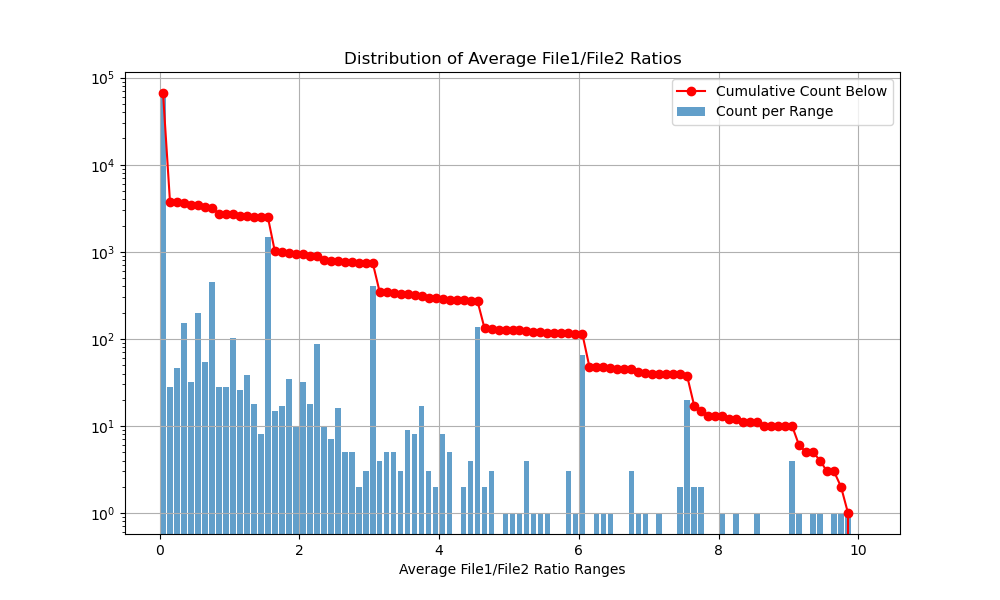
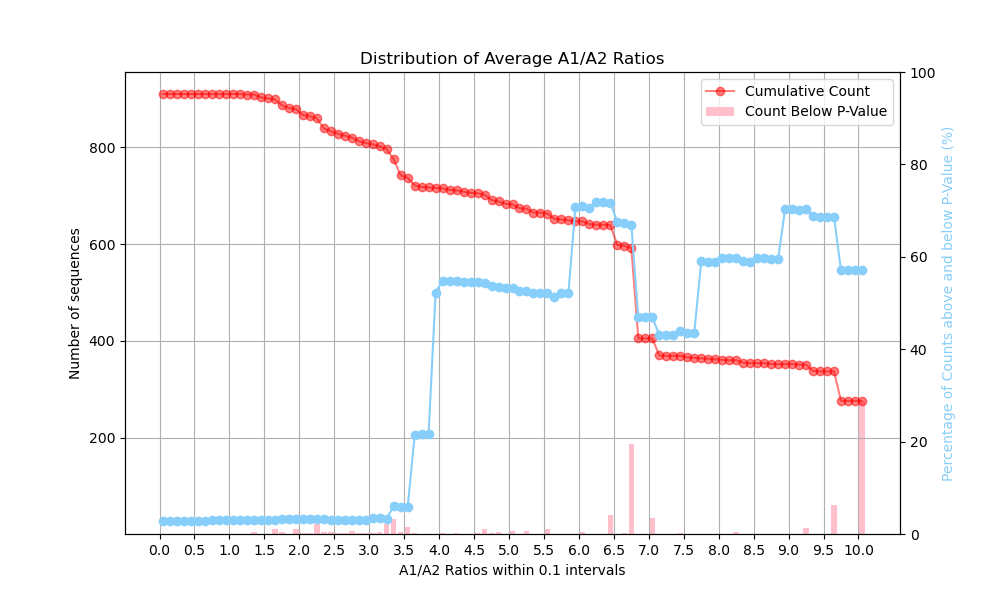
Distrabution files

diff --git a/src/volcanoPlot.py b/src/volcanoPlot.py
@@ -535,7 +535,7 @@ class supportingLogic:
         #Drop columns
         joined.drop(['std_a', 'std_b', 'mean_a', 'mean_b'], axis=1, inplace=True)
         
-        
+        joined.to_csv("debug_volcano.csv")
         
         return joined
 
@@ -609,58 +609,46 @@ class supportingLogic:
         return trimmed
     
     def createDistrabution(fileA, fileB, fileName):
-        dataFrameA = pd.read_csv(fileA, index_col=0)
-        dataFrameA.drop([x for x in dataFrameA.columns.values if x not in ["sequence", "mean", "std"]], axis=1, inplace=True)
-        
-        #Check in the NORMALIZED_ONE_COUNT row is within the file
-        if("NORMALIZED_ONE_COUNT" in dataFrameA.index):
-            dfA_oneCount = dataFrameA.loc["NORMALIZED_ONE_COUNT"][0]
-            dataFrameA.drop("NORMALIZED_ONE_COUNT", inplace=True)
-        else:
-            dfA_oneCount = dataFrameA["mean"].min()
-        
-        dataFrameB = pd.read_csv(fileB, index_col=0)
-        dataFrameB.drop([x for x in dataFrameB.columns.values if x not in ["sequence", "mean", "std"]], axis=1, inplace=True)
-        
-        if("NORMALIZED_ONE_COUNT" in dataFrameB.index):
-            dfB_oneCount = dataFrameB.loc["NORMALIZED_ONE_COUNT"][0]
-            dataFrameB.drop("NORMALIZED_ONE_COUNT", inplace=True)
-        else:
-            dfB_oneCount = dataFrameB["mean"].min()
-        
-        dfa_ColumnCount = 3
-        dfb_ColumnCount = 3
-        
-        
-        joined = dataFrameA.join(dataFrameB, how='outer', lsuffix='_a', rsuffix='_b')
-        
-        joined.fillna(0, inplace=True)
-        
-        sumA, sumB = joined.iloc[:, 0].sum(), joined.iloc[:, 2].sum()
-        
-        [statistic, pValue] = sp.ttest_ind_from_stats(joined['mean_a'], joined['std_a'], dfa_ColumnCount, joined['mean_b'], joined['std_b'], dfb_ColumnCount, equal_var=False, alternative='greater')
-        
-        joined['AvB_Ratio'] = (joined['mean_a'] / sumA) / (joined['mean_b'] / sumB)
-        joined['-log10(P-Value)'] = -(np.log10(pValue + 1e-10))
+        joined = supportingLogic.csvComparision(fileA, fileB)
+        joined.to_csv("debug_volcano_distro.csv")
         
         ratioCount = {}
         
         start, end, step = 0, 10, 0.1
         stepDecimal = len(str(step).split(".")[-1])
-        rolling_count = 0
+        rolling_count, rolling_above, rolling_below = 0, 0, 0
         for i in np.linspace(start, end, int((end - start)/step) + 1):
-            count_withinRange = len(joined[(joined['AvB_Ratio'] >= i) & (joined['AvB_Ratio'] < i + step)])
-            ratioCount[float(i)] = count_withinRange
+            
+            count_withinRange_belowPvalue = len(joined[(joined['AvB_Ratio'] >= i) & (joined['AvB_Ratio'] < i + step) & (joined['-log10(P-Value)'] >= -np.log10(0.05))])
+            count_withinRange_abovePvalue = len(joined[(joined['AvB_Ratio'] >= i) & (joined['AvB_Ratio'] < i + step) & (joined['-log10(P-Value)'] < -np.log10(0.05))])
+            
+            count_withinRange = count_withinRange_belowPvalue + count_withinRange_abovePvalue
+            ratioCount[float(i)] = {"belowPvalue": count_withinRange_belowPvalue, "abovePvalue": count_withinRange_abovePvalue, "total": count_withinRange}
             rolling_count += count_withinRange
+            rolling_below += count_withinRange_belowPvalue
+            rolling_above += count_withinRange_abovePvalue
+        
+        count_withinRange_belowPvalue = len(joined[(joined['AvB_Ratio'] > i + step) & (joined['-log10(P-Value)'] >= -np.log10(0.05))])
+        count_withinRange_abovePvalue = len(joined[(joined['AvB_Ratio'] > i + step) & (joined['-log10(P-Value)'] < -np.log10(0.05))])
+        
+        count_withinRange = count_withinRange_belowPvalue + count_withinRange_abovePvalue
+        
+        ratioCount[float(end)] = {"belowPvalue": count_withinRange_belowPvalue, "abovePvalue": count_withinRange_abovePvalue, "total": count_withinRange}
+        rolling_count += count_withinRange
+        rolling_below += count_withinRange_belowPvalue
+        rolling_above += count_withinRange_abovePvalue
             
             
         with open(fileName, 'w') as f:
-            f.write("Ratio Range,Count, Count below\n")
+            f.write("Ratio_Range, Total_Count, Rolling_Count, Count_Below_Pvalue, Count_Above_Pvalue\n")
              
-            for key in ratioCount:
+            for key, value in ratioCount.items():
                 roundedKey = round(key, stepDecimal)
-                f.write(f"{roundedKey}-{round(key + step, stepDecimal)},{ratioCount[key]}, {rolling_count}\n")
-                rolling_count -= ratioCount[key]
+                if(key == end):
+                    f.write(f"{roundedKey}-{roundedKey}+, {value["total"]}, {rolling_count}, {value["belowPvalue"]}, {value["abovePvalue"]}\n")
+                else:
+                    f.write(f"{roundedKey}-{round(key + step, stepDecimal)}, {value["total"]}, {rolling_count}, {value["belowPvalue"]}, {value["abovePvalue"]}\n")
+                rolling_count -= ratioCount[key]["total"]
             
         pass
     

diff --git a/dev_Tools/visualizationGraphs.py b/dev_Tools/visualizationGraphs.py
@@ -2,9 +2,12 @@ import matplotlib.pyplot as plt
 import numpy as np
 
 def load_distribution_data(file_path):
+    #Ratio_Range, Total_Count, Rolling_Count, Count_Below_Pvalue, Count_Above_Pvalue
     ratio_ranges = []
     counts = []
     counts_below = []
+    counts_below_pvalue = []
+    counts_above_pvalue = []
     
     midRatio = lambda r: (float(r.split('-')[0]) + (float(r.split('-')[1]))) / 2
     
@@ -12,24 +15,86 @@ def load_distribution_data(file_path):
         next(f)  # Skip header
         for line in f:
             parts = line.strip().split(',')
-            ratio_ranges.append(midRatio(parts[0]))
+            ratio_ranges.append(midRatio(parts[0]) if '+' not in parts[0] else float(parts[0].split('-')[0]) + 0.05)
             counts.append(int(parts[1]))
             counts_below.append(int(parts[2]))
+            counts_below_pvalue.append(int(parts[3]))
+            counts_above_pvalue.append(int(parts[4]))
     
-    return ratio_ranges, counts, counts_below
+    return ratio_ranges, counts, counts_below, counts_below_pvalue, counts_above_pvalue
 
-def plot_distribution(ratio_ranges, counts, counts_below, output_path):
+def plot_distribution(ratio_ranges, counts, counts_below, output_path, counts_below_pvalue, counts_above_pvalue):
     plt.figure(figsize=(10, 6))
-    plt.bar(ratio_ranges, counts, width=0.08, alpha=0.7, label='Count per Range')
+    
     plt.plot(ratio_ranges, counts_below, color='red', marker='o', label='Cumulative Count Below')
     
-    plt.xlabel('File1/File2 Ratios within 0.1 intervals')
+    bar_dict = {
+        'Count Below P-Value': counts_below_pvalue,
+        'Count Above P-Value': counts_above_pvalue
+    }
+    bottom = np.zeros(len(ratio_ranges))
+    for label, bar_counts in bar_dict.items():
+        plt.bar(ratio_ranges, bar_counts, width=0.08, bottom=bottom, alpha=0.7, label=label, 
+                color = "yellow" if label == 'Count Above P-Value' else "red")
+        bottom += np.array(bar_counts)
+     
+    xticks = [str(x) for x in np.arange(0, 10.1, 0.5)]
+    xticks[-1] = '10+'
+    plt.xticks(xticks)
+    
+    plt.xlabel('A1/A2 Ratios within 0.1 intervals')
     plt.ylabel("Number of sequences")
     plt.yscale('log')
-    plt.title('Distribution of Average File1/File2 Ratios')
+    plt.title('Distribution of Average A1/A2 Ratios')
     plt.legend()
     
     plt.grid(True)
+    plt.savefig(output_path)
+    
+    plt.show()
+    
+def plot_distribution_2(ratio_ranges, counts, counts_below, output_path, counts_below_pvalue, counts_above_pvalue):
+    fig = plt.figure(figsize=(10, 6))
+    ax1 = fig.add_subplot(111)
+    
+    
+    ax1.bar(ratio_ranges, counts_below_pvalue, width=0.08, label="Count Below P-Value", color='pink')
+    rolling_sum = np.array([sum(counts_below_pvalue[i:]) for i in range(len(counts_below_pvalue))])
+    
+    
+    
+    s1 = np.array(counts_above_pvalue) + np.array(counts_below_pvalue)
+    
+    rolling_s1 = np.array([sum(s1[i:]) for i in range(len(s1))])
+    s1 =(rolling_sum / rolling_s1) * rolling_sum[0]
+    
+    ax1.plot(ratio_ranges, rolling_sum, color='red', marker='o', label='Cumulative Count', alpha=0.5)
+    ax1.legend()
+    
+    ax2 = ax1.twinx()
+
+    ax2.plot(ratio_ranges, s1, color='lightskyblue', marker='o', label='Ratio of Counts above and below P-Value')
+    ax2.set_ylabel('Percentage of Counts above and below P-Value (%)', color='lightskyblue')
+    ax2.tick_params(axis='y')
+    ax2.set_ylim(bottom=0, top=100)
+    #ax2.legend()
+    
+    
+   
+    
+     
+    xticks = [x for x in np.arange(0, 10.1, 0.5)]
+    ax1.xaxis.set_ticks(xticks)
+    
+    #ax1.xaxis.xlabel('A1/A2 Ratios within 0.1 intervals')
+    ax1.set_xlabel('A1/A2 Ratios within 0.1 intervals')
+    ax1.set_ylabel("Number of sequences")
+    #plt.yscale('log')
+    ax1.set_title('Distribution of Average A1/A2 Ratios')
+    
+    ax1.set_ylim(bottom=1)
+    
+    ax1.grid(True)
     plt.savefig(output_path)
     
     plt.show()
@@ -48,12 +113,12 @@ def graph_levenstein_distribution(data_file, output_path):
         
 
 if __name__ == "__main__":
-    # input_file = "/Users/ethankoland/Desktop/FOR ETHAN/demo.txt"
-    # output_image = "dev_Tools/volcano_plot_distribution.png"
+    input_file = "dev_Tools/demo.txt"
+    output_image = "dev_Tools/volcano_plot_distribution.png"
     
-    # ratio_ranges, counts, counts_below = load_distribution_data(input_file)
-    # plot_distribution(ratio_ranges, counts, counts_below, output_image)
+    ratio_ranges, counts, counts_below, counts_below_pvalue, counts_above_pvalue = load_distribution_data(input_file)
+    plot_distribution_2(ratio_ranges, counts, counts_below, output_image, counts_below_pvalue, counts_above_pvalue)
     
-    input_file = "testMerge.npy"
-    output_image = "dev_Tools/levenstein_distribution.png"
-    graph_levenstein_distribution(input_file, output_image)
+    # input_file = "testMerge.npy"
+    # output_image = "dev_Tools/levenstein_distribution.png"
+    # graph_levenstein_distribution(input_file, output_image)

diff --git a/dev_Tools/sandbox2.py b/dev_Tools/sandbox2.py
@@ -1,0 +1,4 @@
+import pandas as pd
+
+df = pd.read_csv("debug_volcano_distro.csv")
+print(max(df['AvB_Ratio']))
